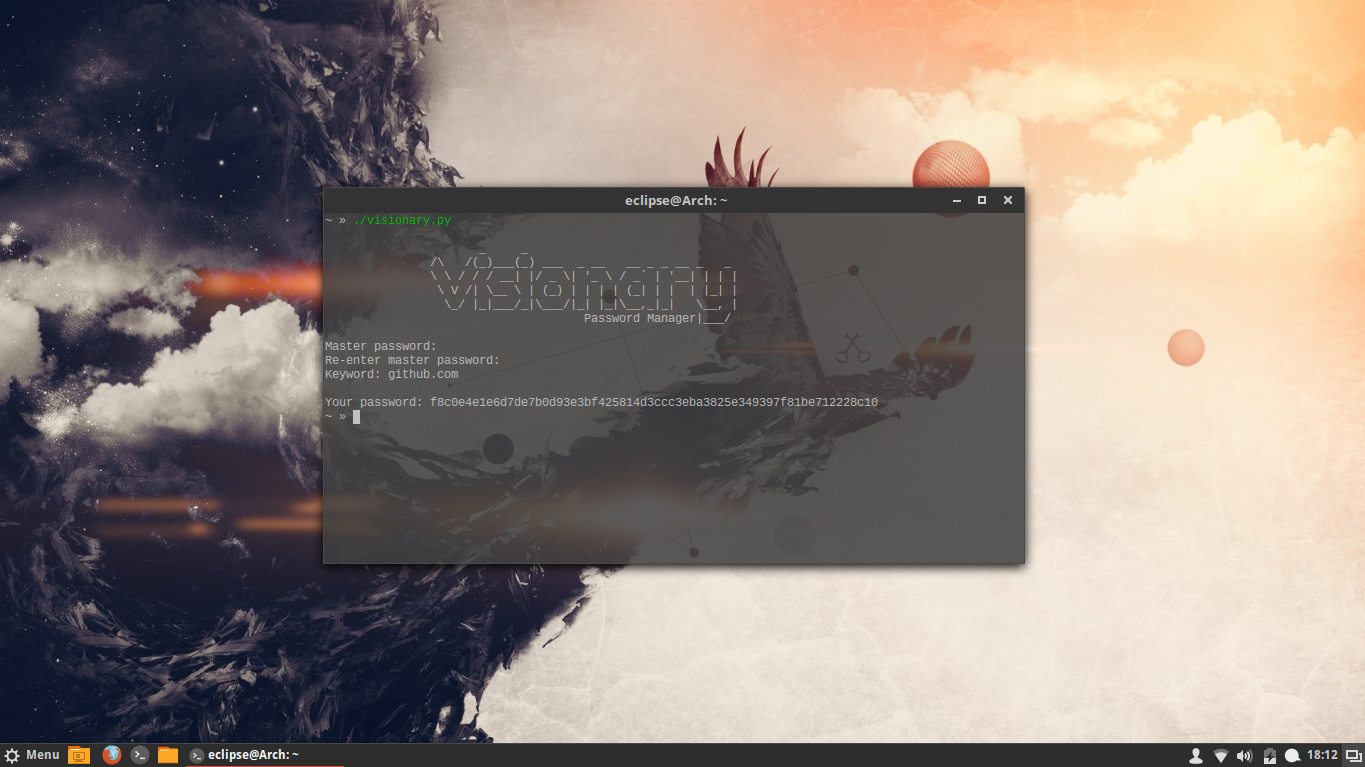
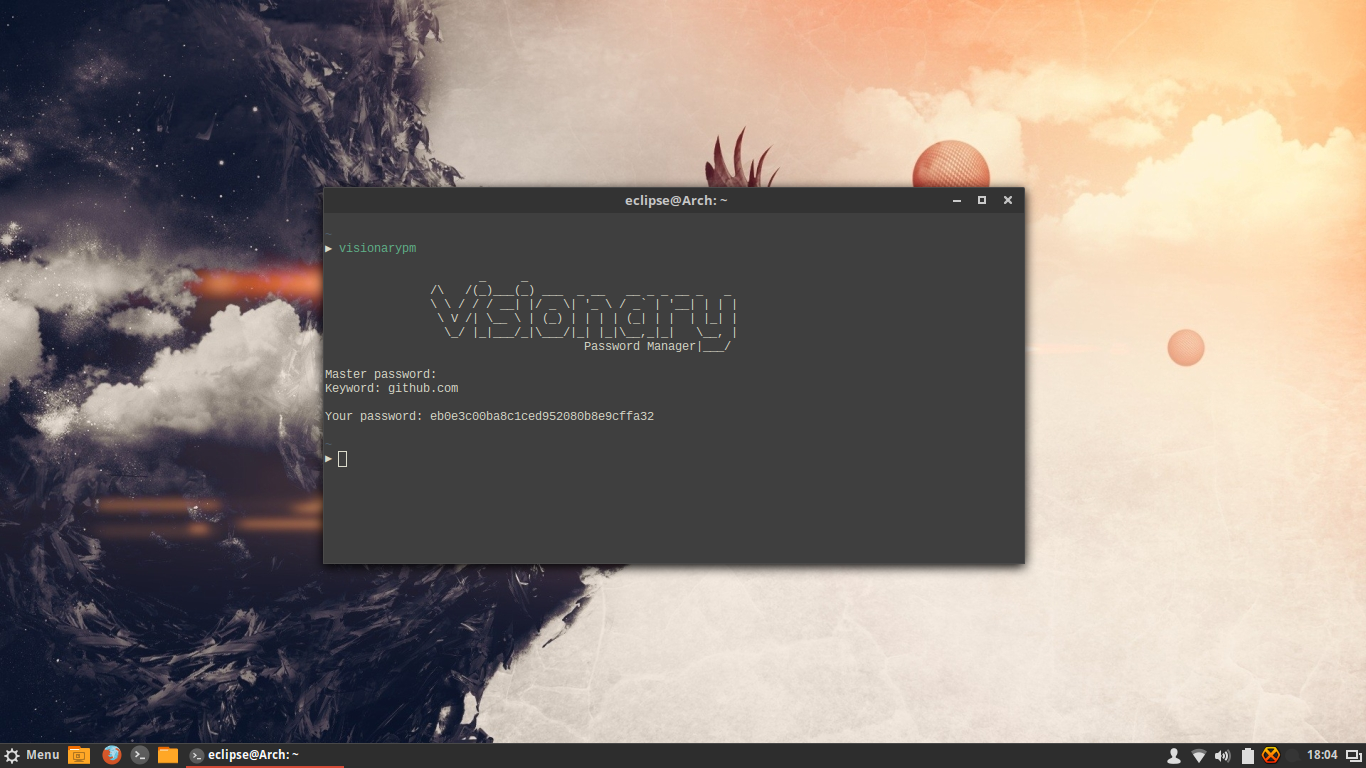
Screenshot

diff --git a/README.md b/README.md
@@ -23,26 +23,26 @@ There are a few problems with this approach:
 
 **Install using pip in order to get the latest stable release.**
 
-`~ » pip2 install visionarypm`
+▶ pip2 install visionarypm`
 
 or
 
-`~ » python2 -m pip install visionarypm`
+▶ python2 -m pip install visionarypm`
 
 ###Option 2: git clone
 
 **Install using git to be at the bleeding edge. You'll receive the latest commit.**
 
 ```
-~ » git clone https://github.com/libeclipse/visionary.git
-~ » cd visionary
-~ » python2 setup.py install
+▶ git clone https://github.com/libeclipse/visionary.git
+▶ cd visionary
+▶ python2 setup.py install
 ```
 
 ##Usage:
 
 ```
-~ » visionarypm
+▶ visionarypm
 
                       _     _                              
                /\   /(_)___(_) ___  _ __   __ _ _ __ _   _ 
@@ -54,7 +54,7 @@ or
 Master password: 
 Keyword: github.com
 
-Your password: 226ee1bddf2cfb0b805a0ebaa185f2ec3092937919fd76e3bc1ff22abecb9f61
+Your password: 8c71d4aa138a3be6bb337e9f47d22cfa
 ```
 
 ###Screenshot:
